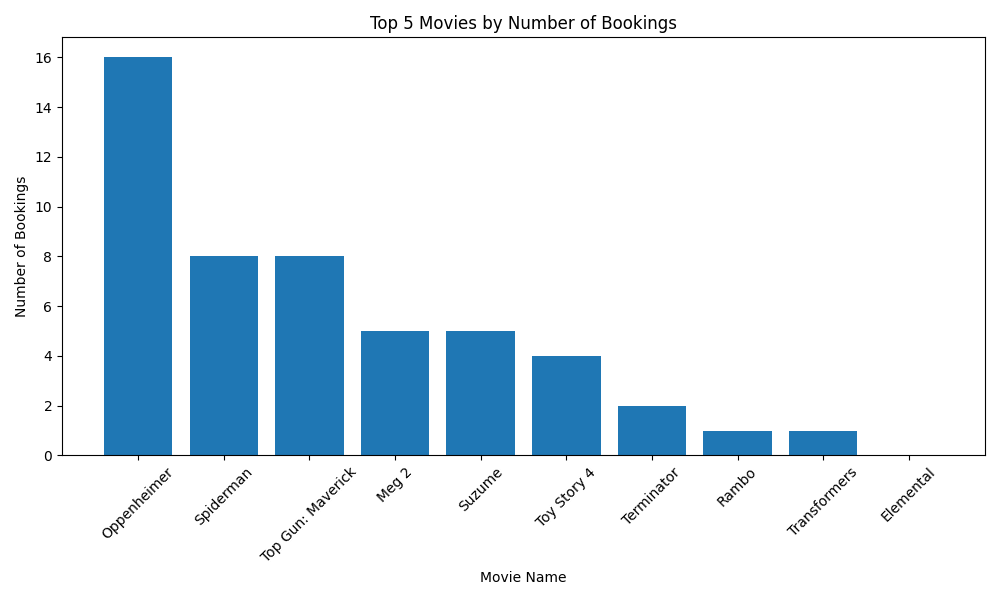
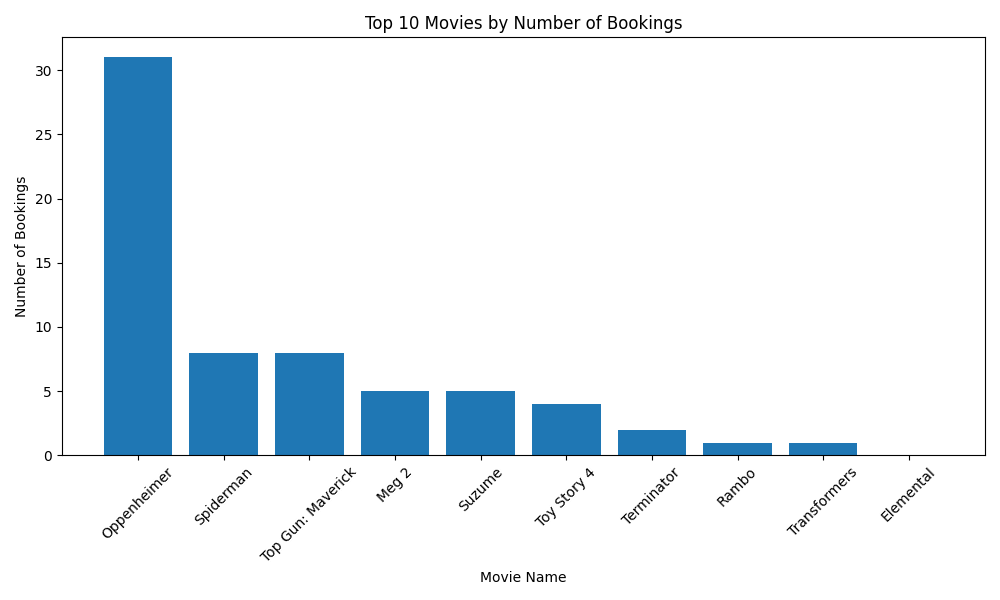
removed flask caching

diff --git a/templates/mybookings.html b/templates/mybookings.html
@@ -39,7 +39,6 @@
       <a class="flex-sm text-sm-center nav-link active" href="{{url_for('mybookings')}}">Your Bookings</a>
       <a class="flex-sm text-sm-center nav-link" href="{{url_for('logout')}}">Logout</a>
     </nav> 
-
 <body>
   <div class="container py-4">
     <h1>My bookings</h1>
@@ -66,5 +65,4 @@
   <link href="https://cdn.jsdelivr.net/npm/bootstrap@5.3.0/dist/css/bootstrap.min.css" rel="stylesheet" integrity="sha384-9ndCyUaIbzAi2FUVXJi0CjmCapSmO7SnpJef0486qhLnuZ2cdeRhO02iuK6FUUVM" crossorigin="anonymous">
   <script src="../static/main.js"></script>
 </body>
-
 </html>

diff --git a/templates/dashboard.html b/templates/dashboard.html
@@ -38,9 +38,6 @@
         <h2>Total Number of Bookings: {{total_popularity}}</h2>
         <a href="{{ url_for('download_data') }}" class="btn btn-primary mt-3 mb-3">Download Dashboard Data</a>
     </div>
-    
-    
-
   </div>
   <script src="https://cdn.jsdelivr.net/npm/bootstrap@5.3.0/dist/js/bootstrap.bundle.min.js" integrity="sha384-geWF76RCwLtnZ8qwWowPQNguL3RmwHVBC9FhGdlKrxdiJJigb/j/68SIy3Te4Bkz" crossorigin="anonymous"></script>
   <script src="https://cdn.jsdelivr.net/npm/vue@2.6.14/dist/vue.js"></script>

diff --git a/static/main.js b/static/main.js
@@ -76,15 +76,6 @@ var app = new Vue({
             console.error(error);
           });
       },
-      // fetchShows() {
-      //   axios.get('/api/shows')
-      //     .then(response => {
-      //       this.shows = response.data;
-      //     })
-      //     .catch(error => {
-      //       console.error(error);
-      //     });
-      // },
       addTheatre() {
         axios.post('/api/add_theatre', {
           theatreName: this.newTheatreName

diff --git a/templates/booking.html b/templates/booking.html
@@ -73,8 +73,6 @@
       </div>
     </template>
   </div>
-
-  <!-- Vue.js script -->
   <script src="https://cdn.jsdelivr.net/npm/bootstrap@5.3.0/dist/js/bootstrap.bundle.min.js" integrity="sha384-geWF76RCwLtnZ8qwWowPQNguL3RmwHVBC9FhGdlKrxdiJJigb/j/68SIy3Te4Bkz" crossorigin="anonymous"></script>
   <script src="https://cdn.jsdelivr.net/npm/vue@2.6.14/dist/vue.js"></script>
   <script src="https://cdn.jsdelivr.net/npm/axios/dist/axios.min.js"></script>

diff --git a/templates/newsletter.html b/templates/newsletter.html
@@ -3,17 +3,9 @@
     <h1>Monthly Newsletter</h1>
     <p>Check out the latest movies:</p>
     <ul>
-        
-            <li>Transformers</li>
-        
-            <li>Terminator</li>
-        
-            <li>Jumanji</li>
-        
-            <li>Toy Story 4</li>
-        
-            <li>Jaws 2</li>
-        
+        {% for movie in movies %}
+            <li>{{ movie.name }}</li>
+        {% endfor %}
     </ul>
 </body>
 </html>

diff --git a/templates/managemovies.html b/templates/managemovies.html
@@ -59,7 +59,6 @@
     </form>
   </div>
 </div>
-
 </html>
   <script src="https://cdn.jsdelivr.net/npm/bootstrap@5.3.0/dist/js/bootstrap.bundle.min.js" integrity="sha384-geWF76RCwLtnZ8qwWowPQNguL3RmwHVBC9FhGdlKrxdiJJigb/j/68SIy3Te4Bkz" crossorigin="anonymous"></script>
   <script src="https://cdn.jsdelivr.net/npm/vue@2.6.14/dist/vue.js"></script>

diff --git a/templates/index.html b/templates/index.html
@@ -1,4 +1,8 @@
 <html data-bs-theme = "dark">
+  <head>
+    <link rel="icon" href="{{ url_for('static', filename='favicon.png') }}" type="image/x-icon">
+    <title>TicketShow</title>
+  </head>
 <div class="overflow-hidden">  
 <div id='app'>
   <nav class="navbar navbar-expand-lg bg-body-tertiary fixed-top p-2">

diff --git a/templates/results.html b/templates/results.html
@@ -33,7 +33,6 @@
       </div>
   </nav>
   <div class="container mt-2 mb-5">navbar content displays here</div>
-
     <div class="container">
         <h2 class = "mt-3 mb-3">Results</h2>
         <div class="row">

diff --git a/templates/managetheatres.html b/templates/managetheatres.html
@@ -28,7 +28,6 @@
       </div>
   </nav>
   <div class="container mt-2 mb-4">navbar content displays here</div>
-  
 <body>
   <div class="container py-4">
     <h2 class="mb-4">Theatres</h2>

diff --git a/app.py b/app.py
@@ -12,8 +12,6 @@ import smtplib
 from email.mime.text import MIMEText
 from email.mime.multipart import MIMEMultipart
 import matplotlib.pyplot as plt
-from flask_caching import Cache
-import csv
 import pandas as pd
 import os
 
@@ -26,7 +24,6 @@ app.config['SECURITY_PASSWORD_SALT'] = 'SALT'
 app.config['CELERY_BROKER_URL'] = 'redis://localhost:6379/0'
 celery = Celery(app.name, broker=app.config['CELERY_BROKER_URL'])
 celery.conf.update(app.config)
-cache = Cache(app, config={'CACHE_TYPE': 'simple'})
 db = SQLAlchemy(app)
   
 class RolesUsers(db.Model):
@@ -61,7 +58,7 @@ class User(db.Model, UserMixin):
     )
 
 class Movies(db.Model):
-    id = db.Column(db.Integer, primary_key=True)
+    id = db.Column(db.Integer, primary_key=True) #nullable
     name = db.Column(db.String(200), nullable=False)
     img = db.Column(db.String(300))
     genre = db.Column(db.String(50))
@@ -115,7 +112,7 @@ def send_daily_reminder():
             if(user.email!='admin@gmail.com'):
                 email_address = user.email
                 email_subject = 'Daily Reminder'
-                email_body = 'This is a reminder to complete your tasks today!'
+                email_body = 'This is a reminder to book your tickets today!'
                 send_email(email_address, email_subject, email_body)
 
 @celery.task
@@ -200,11 +197,10 @@ def index():
 
 @app.route('/login', methods=['GET', 'POST'])
 def login():
-    if current_user.is_authenticated and current_user.email == 'admin@gmail.com':
-        return redirect(url_for('admin'))
     return render_template('login.html')
     
 @app.route('/logout')
+@login_required
 def logout():
     logout_user()
 
@@ -222,7 +218,7 @@ def dashboard():
     plt.bar(movielist, bookingslist)
     plt.xlabel('Movie Name')
     plt.ylabel('Number of Bookings')
-    plt.title('Top 5 Movies by Number of Bookings')
+    plt.title('Top 10 Movies by Number of Bookings')
     plt.xticks(rotation=45)
     plt.tight_layout()
     plt.savefig('static/histogram.png')
@@ -264,6 +260,8 @@ def manage(theatre_id):
 
 @app.route('/admin/download_data', methods=['GET'])
 def download_data():
+    if not current_user.is_authenticated or current_user.email != 'admin@gmail.com':
+        return abort(403)
     mlist = []
     poplist = []
     for movie in Movies.query.all() :
@@ -274,7 +272,6 @@ def download_data():
         'No of Bookings': poplist
     }
     df = pd.DataFrame(data)
-
 
     csv_data = df.to_csv(index=False)
     response = Response(csv_data, content_type='text/csv')
@@ -289,9 +286,7 @@ def register():
             password=hash_password(request.form.get('password'))
         )
         db.session.commit()
-
         return redirect(url_for('account'))
-
     return render_template('register.html')
 
 
@@ -316,6 +311,7 @@ def booking():
     return render_template('booking.html')
 
 @app.route('/accprofilepic', methods=['GET','POST'])
+@login_required
 def accprofilepic():
     return render_template('profilepic.html')
 
@@ -327,22 +323,21 @@ def mybookings():
 
 @app.route('/search/results', methods=['GET'])
 def search_results():
-    # Retrieve the query string from the URL parameters
     query_string = request.args.get('query', '')
-    
-    # Query the database based on the query string
     movies = Movies.query.filter(Movies.name.ilike(f"%{query_string}%")).all()
-    
-    # Pass the search results data to the 'results.html' template
     return render_template('results.html', movies=movies)
 
 @app.route('/edit_theatre/<int:theatre_id>', methods=['GET','POST'])
 def edit_theatre(theatre_id):
+    if not current_user.is_authenticated or current_user.email != 'admin@gmail.com':
+        return abort(403)
     theatre = Theatres.query.get_or_404(theatre_id)
     return render_template('edittheatre.html', theatre=theatre)
 
 @app.route('/edit_movie/<int:movie_id>', methods=['GET','POST'])
 def edit_movie(movie_id):
+    if not current_user.is_authenticated or current_user.email != 'admin@gmail.com':
+        return abort(403)
     movie = Movies.query.get_or_404(movie_id)
     return render_template('editmovies.html', movie=movie)
 
@@ -362,7 +357,6 @@ def get_movies():
 
 
 @app.route('/api/theaters', methods=['GET'])
-@cache.cached(timeout=3600)
 def get_theatres():
     theatres = Theatres.query.all()
     theatre_list = []
@@ -376,6 +370,7 @@ def get_theatres():
     return jsonify(theatre_list)
 
 @app.route('/api/book_tickets', methods=['POST'])
+@login_required
 def book_tickets():
     data = request.json
 
@@ -405,6 +400,7 @@ def book_tickets():
     return jsonify(response)
 
 @app.route('/api/update_profile', methods=['POST'])
+@login_required
 def update_profile():
     data = request.json
 
@@ -445,7 +441,6 @@ def profilepic():
     response = {
         'message': 'Profile Picture Updated successfully!'
     }
-
     return jsonify(response)
 
 @app.route('/api/allshows', methods=['POST'])
@@ -613,6 +608,7 @@ def remove_show():
 
 
 @app.route('/api/my_bookings', methods = ['GET'])
+@login_required
 def my_bookings():
     user_id = current_user.id
     bookings = Bookings.query.filter_by(user_id = user_id).all()
@@ -631,11 +627,15 @@ def my_bookings():
 
 @app.route('/send_reminder')
 def send_reminder():
+    if not current_user.is_authenticated or current_user.email != 'admin@gmail.com':
+        return abort(403)
     send_daily_reminder.delay()
-    return 'Reminder task sent!'
+    return 'Daily reminder sent!'
 
 @app.route('/send_newsletter')
 def send_newsletter():
+    if not current_user.is_authenticated or current_user.email != 'admin@gmail.com':
+        return abort(403)
     send_monthly_newsletter.delay()
     return 'Newsletter sent!'
 
